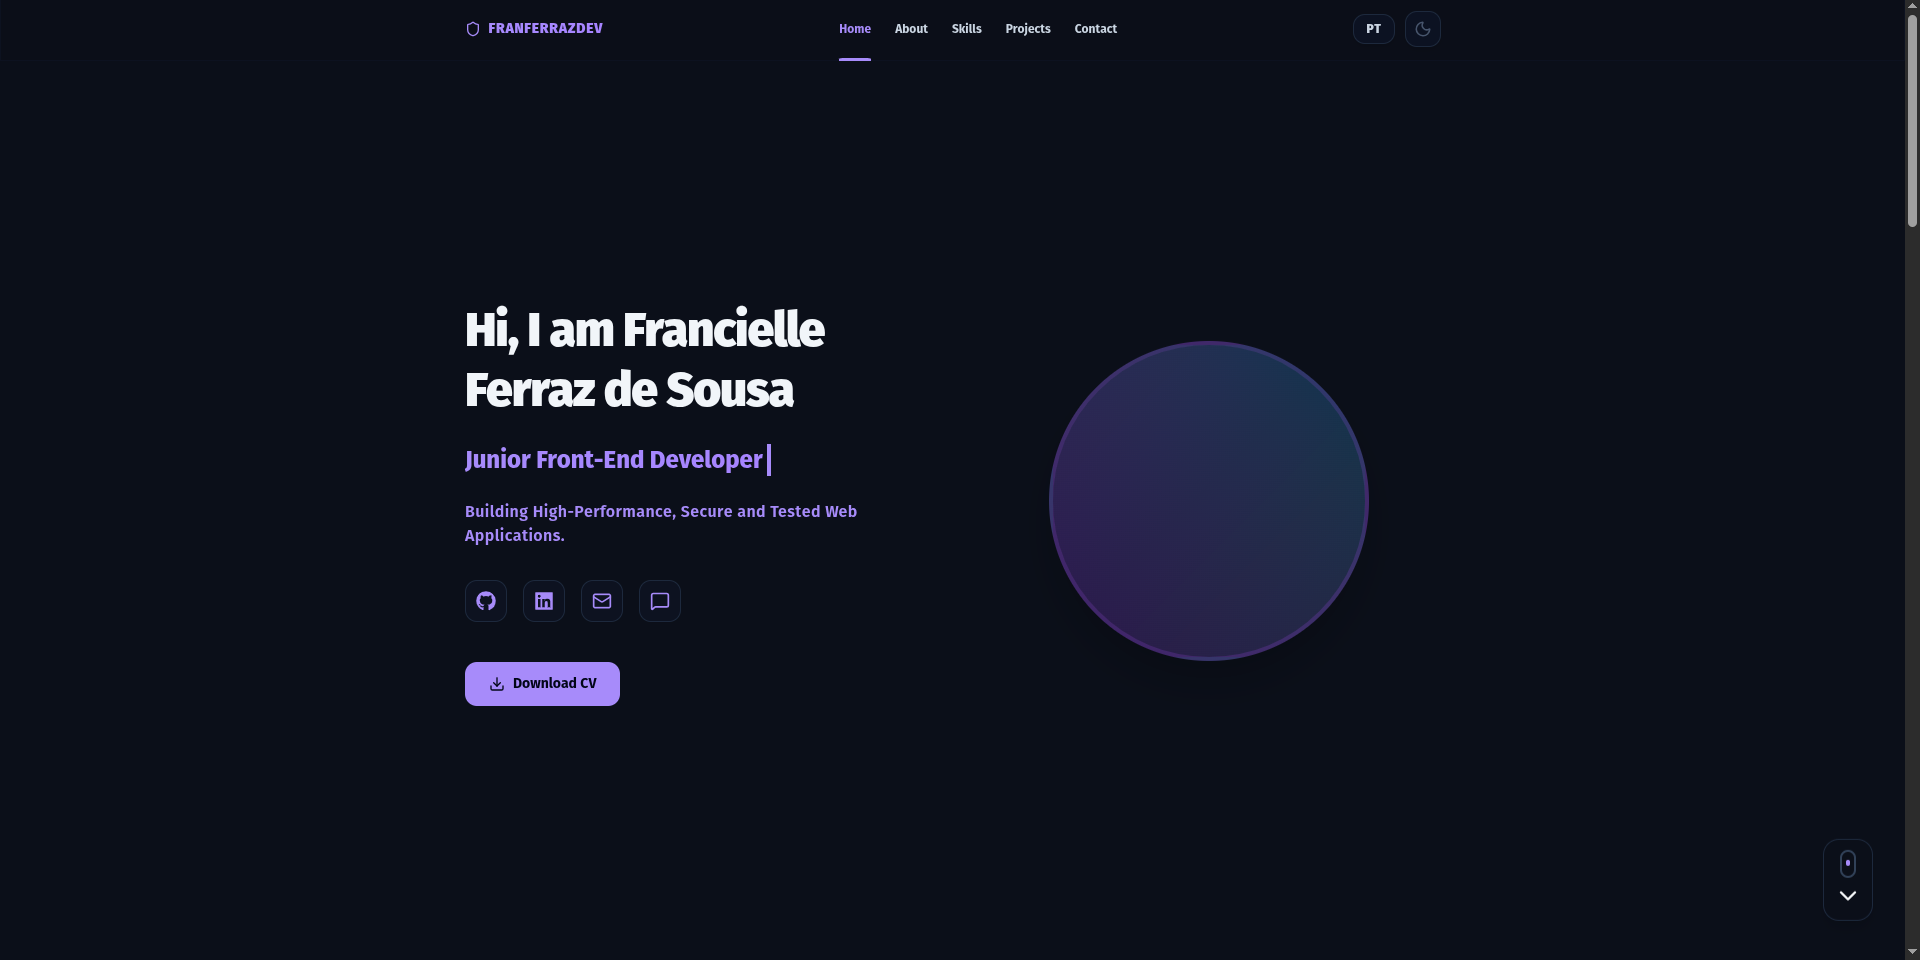
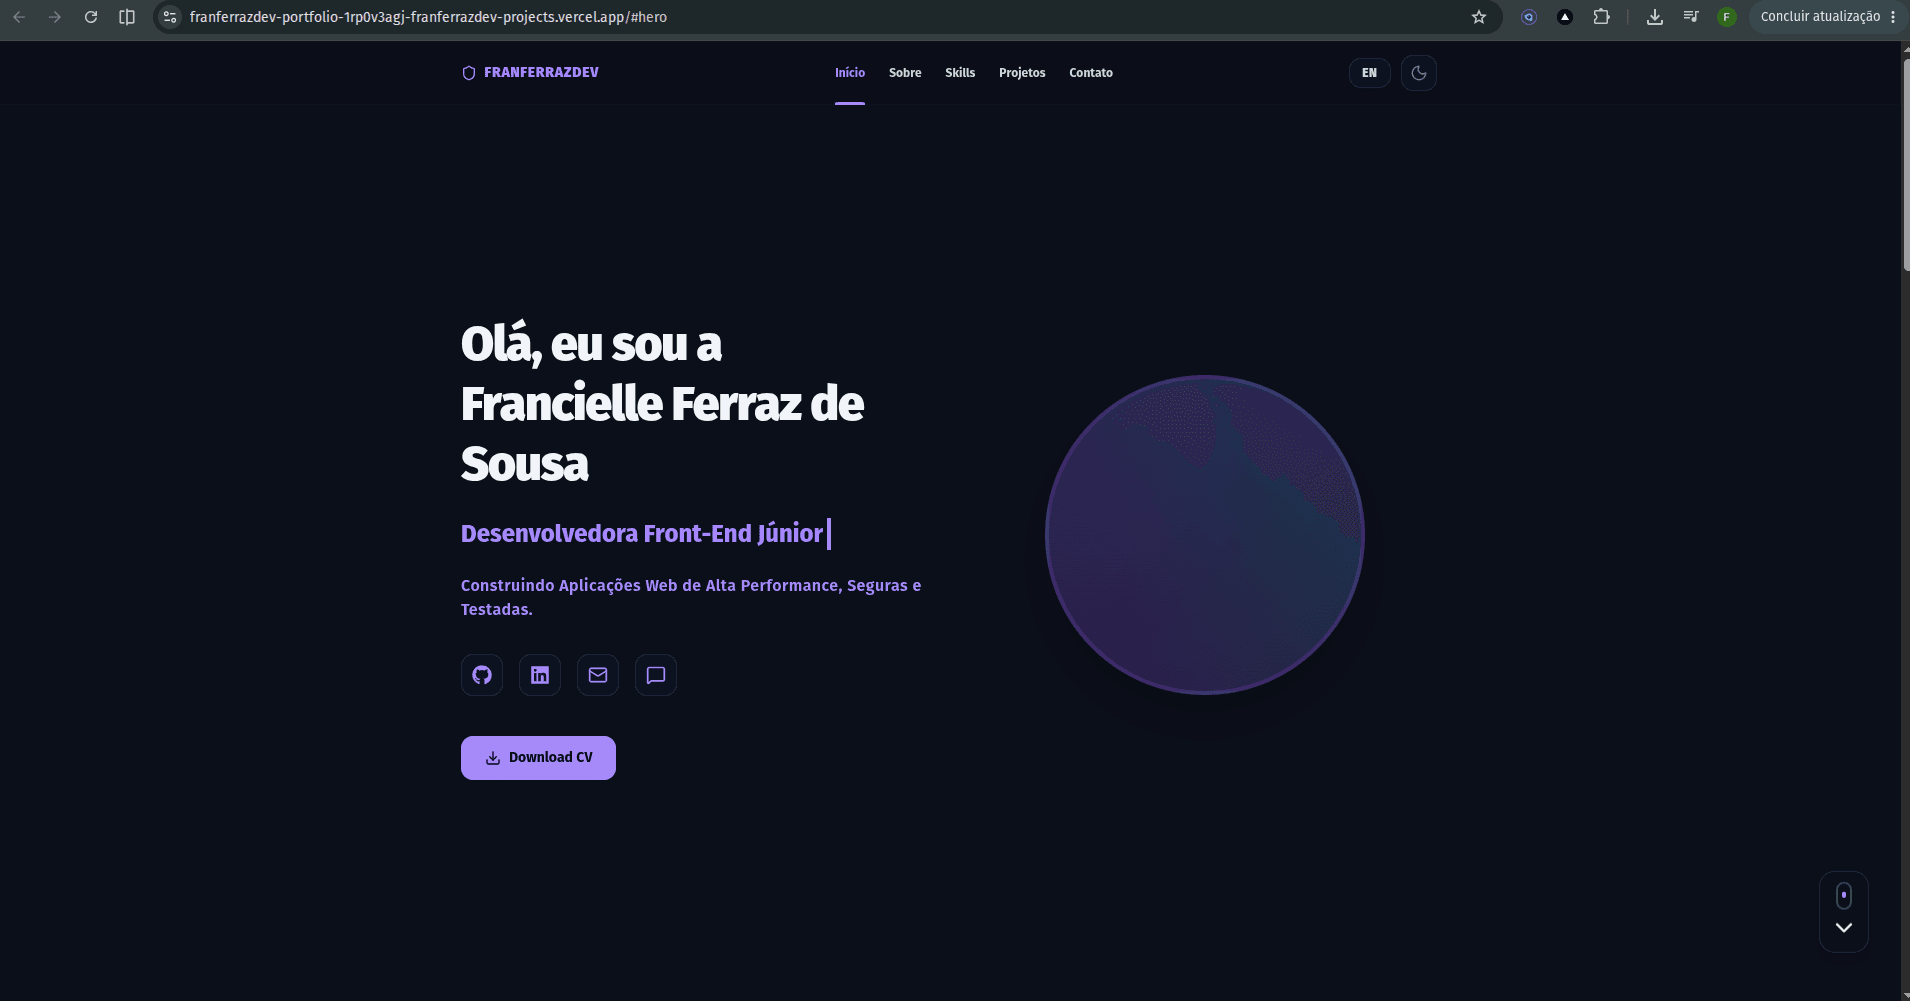
profile: update about section text to match GitHub bio

diff --git a/src/sections/AboutMe.tsx b/src/sections/AboutMe.tsx
@@ -25,11 +25,18 @@ export function AboutMe() {
         <div className="md:col-span-8 flex flex-col gap-4 text-sm sm:text-base text-slate-600 dark:text-slate-300 leading-relaxed font-medium">
           {language === "pt" ? (
             <p>
-              Desenvolvedora especialista no ecossistema{" "}
+              Desenvolvedora autodidata Front-End Junior especializada no
+              ecossistema{" "}
               <strong className="font-extrabold text-slate-900 dark:text-white bg-purple-500/10 px-1 py-0.5 rounded">
                 React e Next.js
               </strong>
-              . Como profissional neurodivergente{" "}
+              . Crio interfaces{" "}
+              <strong className="font-bold text-slate-800 dark:text-slate-100">
+                modernas, perfomáticas, organizadas e acessíveis
+              </strong>
+              , dominando o gerenciamento de estado otimização de renderização e
+              foco total na experiência do usuário. Como profissional
+              neurodivergente{" "}
               <strong className="font-extrabold text-brand-purple dark:text-brand-neon">
                 (TEA)
               </strong>
@@ -37,41 +44,44 @@ export function AboutMe() {
               <strong className="font-bold text-slate-800 dark:text-slate-100">
                 hiperfoco, lógica apurada e atenção extrema aos detalhes
               </strong>{" "}
-              em código limpo, estruturado e de alta qualidade. Atuo com máxima
-              eficiência no modelo{" "}
-              <strong className="font-bold text-slate-800 dark:text-slate-100">
-                100% remoto
-              </strong>
-              , entregando total{" "}
+              em código limpo, estruturado e de alta qualidade, , entregando{" "}
               <strong className="font-bold text-slate-800 dark:text-slate-100">
                 autonomia
               </strong>{" "}
-              e comunicação escrita impecável.
+              e soluções de engenharia{" "}
+              <strong className="font-bold text-slate-800 dark:text-slate-100">
+                ponta a ponta
+              </strong>
+              .
             </p>
           ) : (
             <p>
-              Developer specializing in the{" "}
+              Self-taught Junior Front-End Developer specializing in the{" "}
               <strong className="font-extrabold text-slate-900 dark:text-white bg-purple-500/10 px-1 py-0.5 rounded">
                 React and Next.js
               </strong>{" "}
-              ecosystem. As a neurodivergent profesional{" "}
+              ecosystem. I build{" "}
+              <strong className="font-bold text-slate-800 dark:text-slate-100">
+                modern, high-performance, organized, and accessible interfaces
+              </strong>
+              , mastering state management and rendering optimization with a
+              strong focus on user experience. As a neurodivergent professional{" "}
               <strong className="font-extrabold text-brand-purple dark:text-brand-neon">
                 (ASD)
               </strong>
-              , I transform{" "}
+              , I build{" "}
               <strong className="font-bold text-slate-800 dark:text-slate-100">
                 hyperfocus, sharp logic, and extreme attention to detail
               </strong>{" "}
-              into clean, structured, and high-quality code. I operate with
-              maximum efficiency in a{" "}
-              <strong className="font-bold text-slate-800 dark:text-slate-100">
-                100% remote
-              </strong>{" "}
-              model, delivering complete{" "}
+              into clean, structured, high-quality code, delivering{" "}
               <strong className="font-bold text-slate-800 dark:text-slate-100">
                 autonomy
               </strong>{" "}
-              and flawless written communination.
+              and{" "}
+              <strong className="font-bold text-slate-800 dark:text-slate-100">
+                end-to-end
+              </strong>{" "}
+              engineering solutions.
             </p>
           )}
         </div>

diff --git a/src/locales/translations.ts b/src/locales/translations.ts
@@ -43,7 +43,7 @@ export const translations: Record<Language, TranslationSchema> = {
       contact: "Contato",
     },
     hero: {
-      role: "Desenvolvedora Front-End Júnior",
+      role: "Desenvolvedora Front-End Junior",
       headline:
         "Construindo Aplicações Web de Alta Performance, Seguras e Testadas.",
       greeting: "Olá, eu sou a Francielle Ferraz de Sousa",
@@ -51,7 +51,7 @@ export const translations: Record<Language, TranslationSchema> = {
     },
     about: {
       title: "Sobre Mim",
-      text: "Desenvolvedora especialista no ecossistema React e Next.js. Como profissional neurodivergente (TEA), transformo hiperfoco, lógica apurada e atenção extrema aos detalhes em código limpo, estruturado e de alta qualidade. Atuo com máxima eficiência no modelo 100% remoto, entregando total autonomia e comunicação escrita impecável.",
+      text: "Desenvolvedora autodidata Front-End Junior especializada no ecossistema React e Next.js. Crio interfaces modernas, perfomáticas, organizadas e acessíveis, dominando o gerenciamento de estado otimização de renderização e foco total na experiência do usuário. Como profissional neurodivergente (TEA), transformo hiperfoco, lógica apurada e atenção extrema aos detalhes em código limpo, estruturado e de alta qualidade, , entregando autonomia e soluções de engenharia ponta a ponta.",
       cardTitle: "Foco e Execução",
       cardText:
         "Abordagem voltada à arquitetura limpa, padronização rigorosa de commits e documentação assertiva. Alta adaptabilidade ao ecossistema serverless e rotinas assíncronas de engenharia.",
@@ -97,7 +97,7 @@ export const translations: Record<Language, TranslationSchema> = {
     },
     about: {
       title: "About Me",
-      text: "Developer specializing in the React and Next.js ecosystem. As a neurodivergent profesional (ASD), I transform hyperfocus, sharp logic, and extreme attention to detail into clean, structured, and high-quality code. I operate with maximum efficiency in a 100% remote model, delivering complete autonomy and flawless written communination.",
+      text: "Self-taught Junior Front-End Developer specializing in the React and Next.js ecosystem. I build modern, high-performance, organized, and accessible interfaces, mastering state management and rendering optimization with a strong focus on user experience. As a neurodivergent professional (ASD), I build hyperfocus, sharp logic, and extreme attention to detail into clean, structured, high-quality code, delivering autonomy and end-to-end engineering solutions.",
       cardTitle: "Focus & Execution",
       cardText:
         "Clean architecture-driven approach, strict commit standartization, and assertive documentation. High adaptability to serverless ecosystems and asynchronous workflows.",
